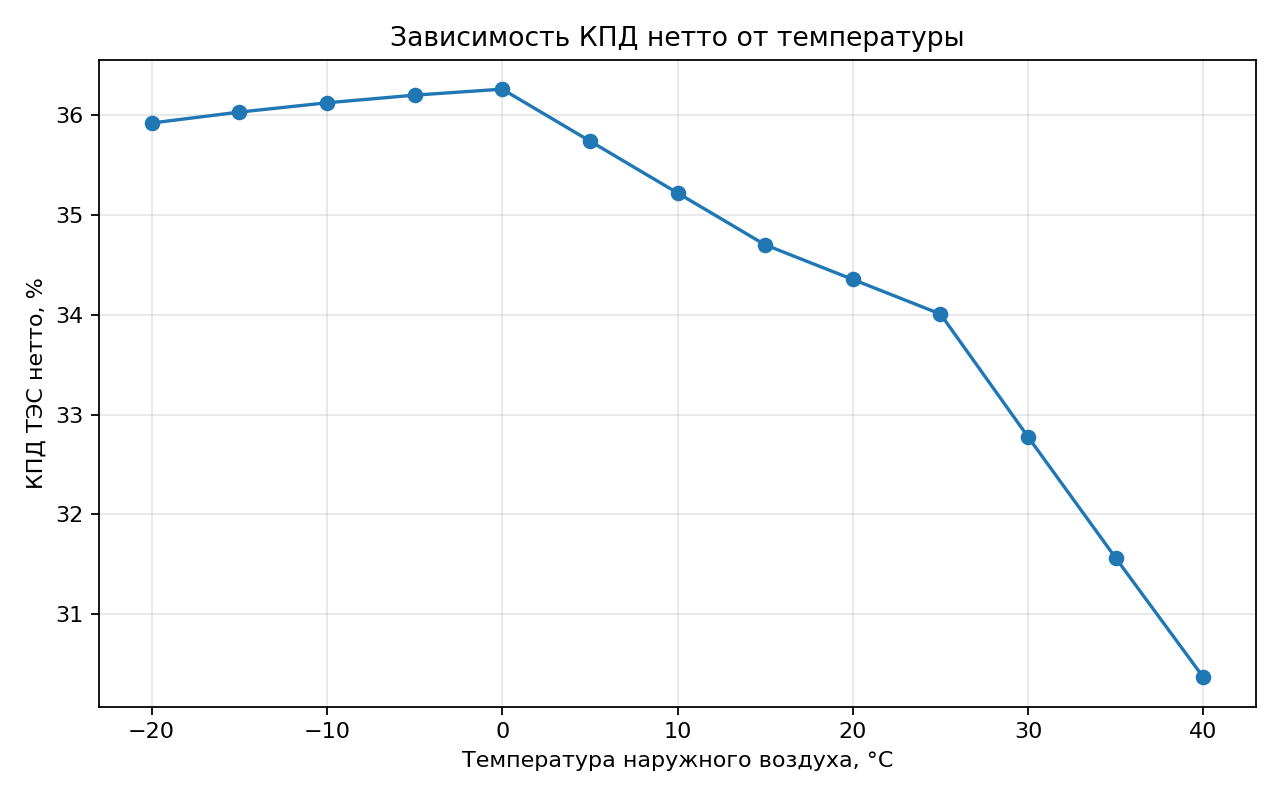
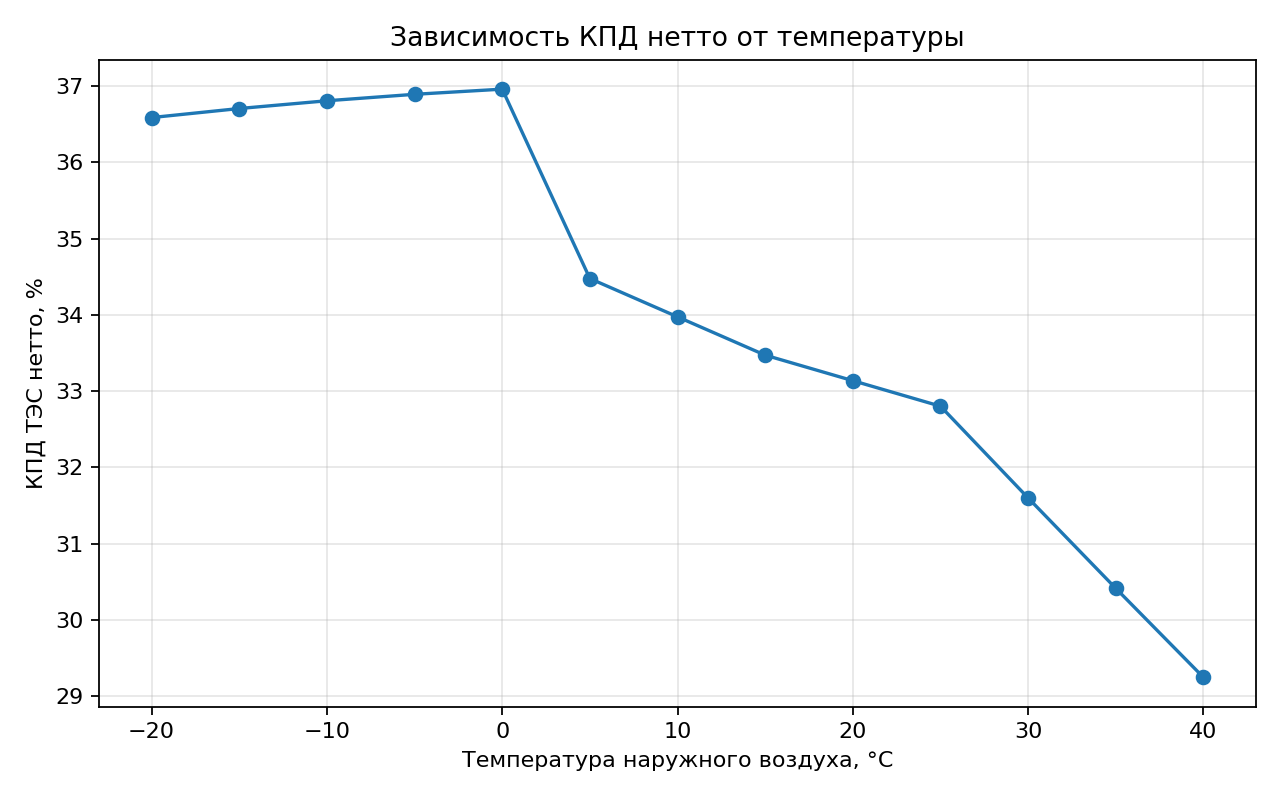
eto_tochno_vse_finalkm3

diff --git a/README.md b/README.md
@@ -284,24 +284,7 @@ admin
 
 ---
 
-## 11. Запуск тестов
-
-Для проверки проекта:
-
-```bash
-pytest
-```
-
-Или:
-
-```bash
-PYTHONPATH=. pytest -q
-```
-
----
-
-
-## 12. Описание результата
+## 11. Описание результата
 
 После выполнения расчёта система формирует набор показателей:
 
@@ -318,7 +301,7 @@ PYTHONPATH=. pytest -q
 
 ---
 
-## 13. Завершение работы
+## 12. Завершение работы
 
 Для выхода из GUI используйте:
 